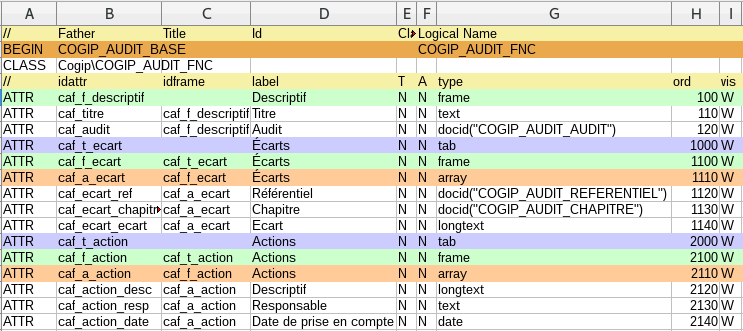
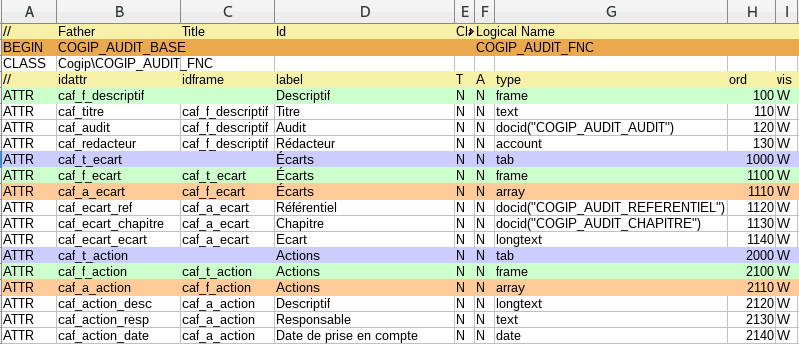
feat(struct): add an autocompletion caption

diff --git a/Contents/30-Famille/20-structure.md b/Contents/30-Famille/20-structure.md
@@ -1,4 +1,4 @@
-# Mise en place des structures  {#quickstart:3b64d38f-81aa-4c02-aad5-77271247bf15}
+# Mise en place des structures {#quickstart:3b64d38f-81aa-4c02-aad5-77271247bf15}
 
 Ce chapitre va vous permettre d'initier vos premières familles.
 
@@ -37,6 +37,7 @@ L'analyse des besoins a montré que votre application nécessite les familles su
 + Fiche de non conformité : Elle représente une non conformité et contient :
     + le titre de la non conformité,
     + un lien vers la fiche d'audit,
+    + un rédacteur,
     + une liste de liens vers des chapitres de référentiel, avec pour chacun :
         + un lien vers le chapitre,
         + un lien vers le référentiel,
@@ -307,6 +308,10 @@ Les fichiers stubs contiennent :
 
 * les classes intermédiaires générées sur le serveur (`\Dcp\Family\COGIP_AUDIT_BASE`) qui permettent d'avoir la chaîne d'héritage complète et la complétion,
 * les classes en `\Dcp\AttributeIdentifiers\COGIP_AUDIT_AUDIT` qui contiennent la liste des attributs défini dans les fichiers `__STRUCT.csv` et permettent de référencer les attributs en utilisant la complétion de votre IDE.
+
+Exemple de complétion d'attribut à l'aide des stubs :
+
+![ Complétion d'attribut ](30-20-structure-stub-completion.png "Complétion d'attribut")
 
 ## Internationalisation {#quickstart:989b4a9e-e3d8-475e-9dcf-9a158605eab6}
 
